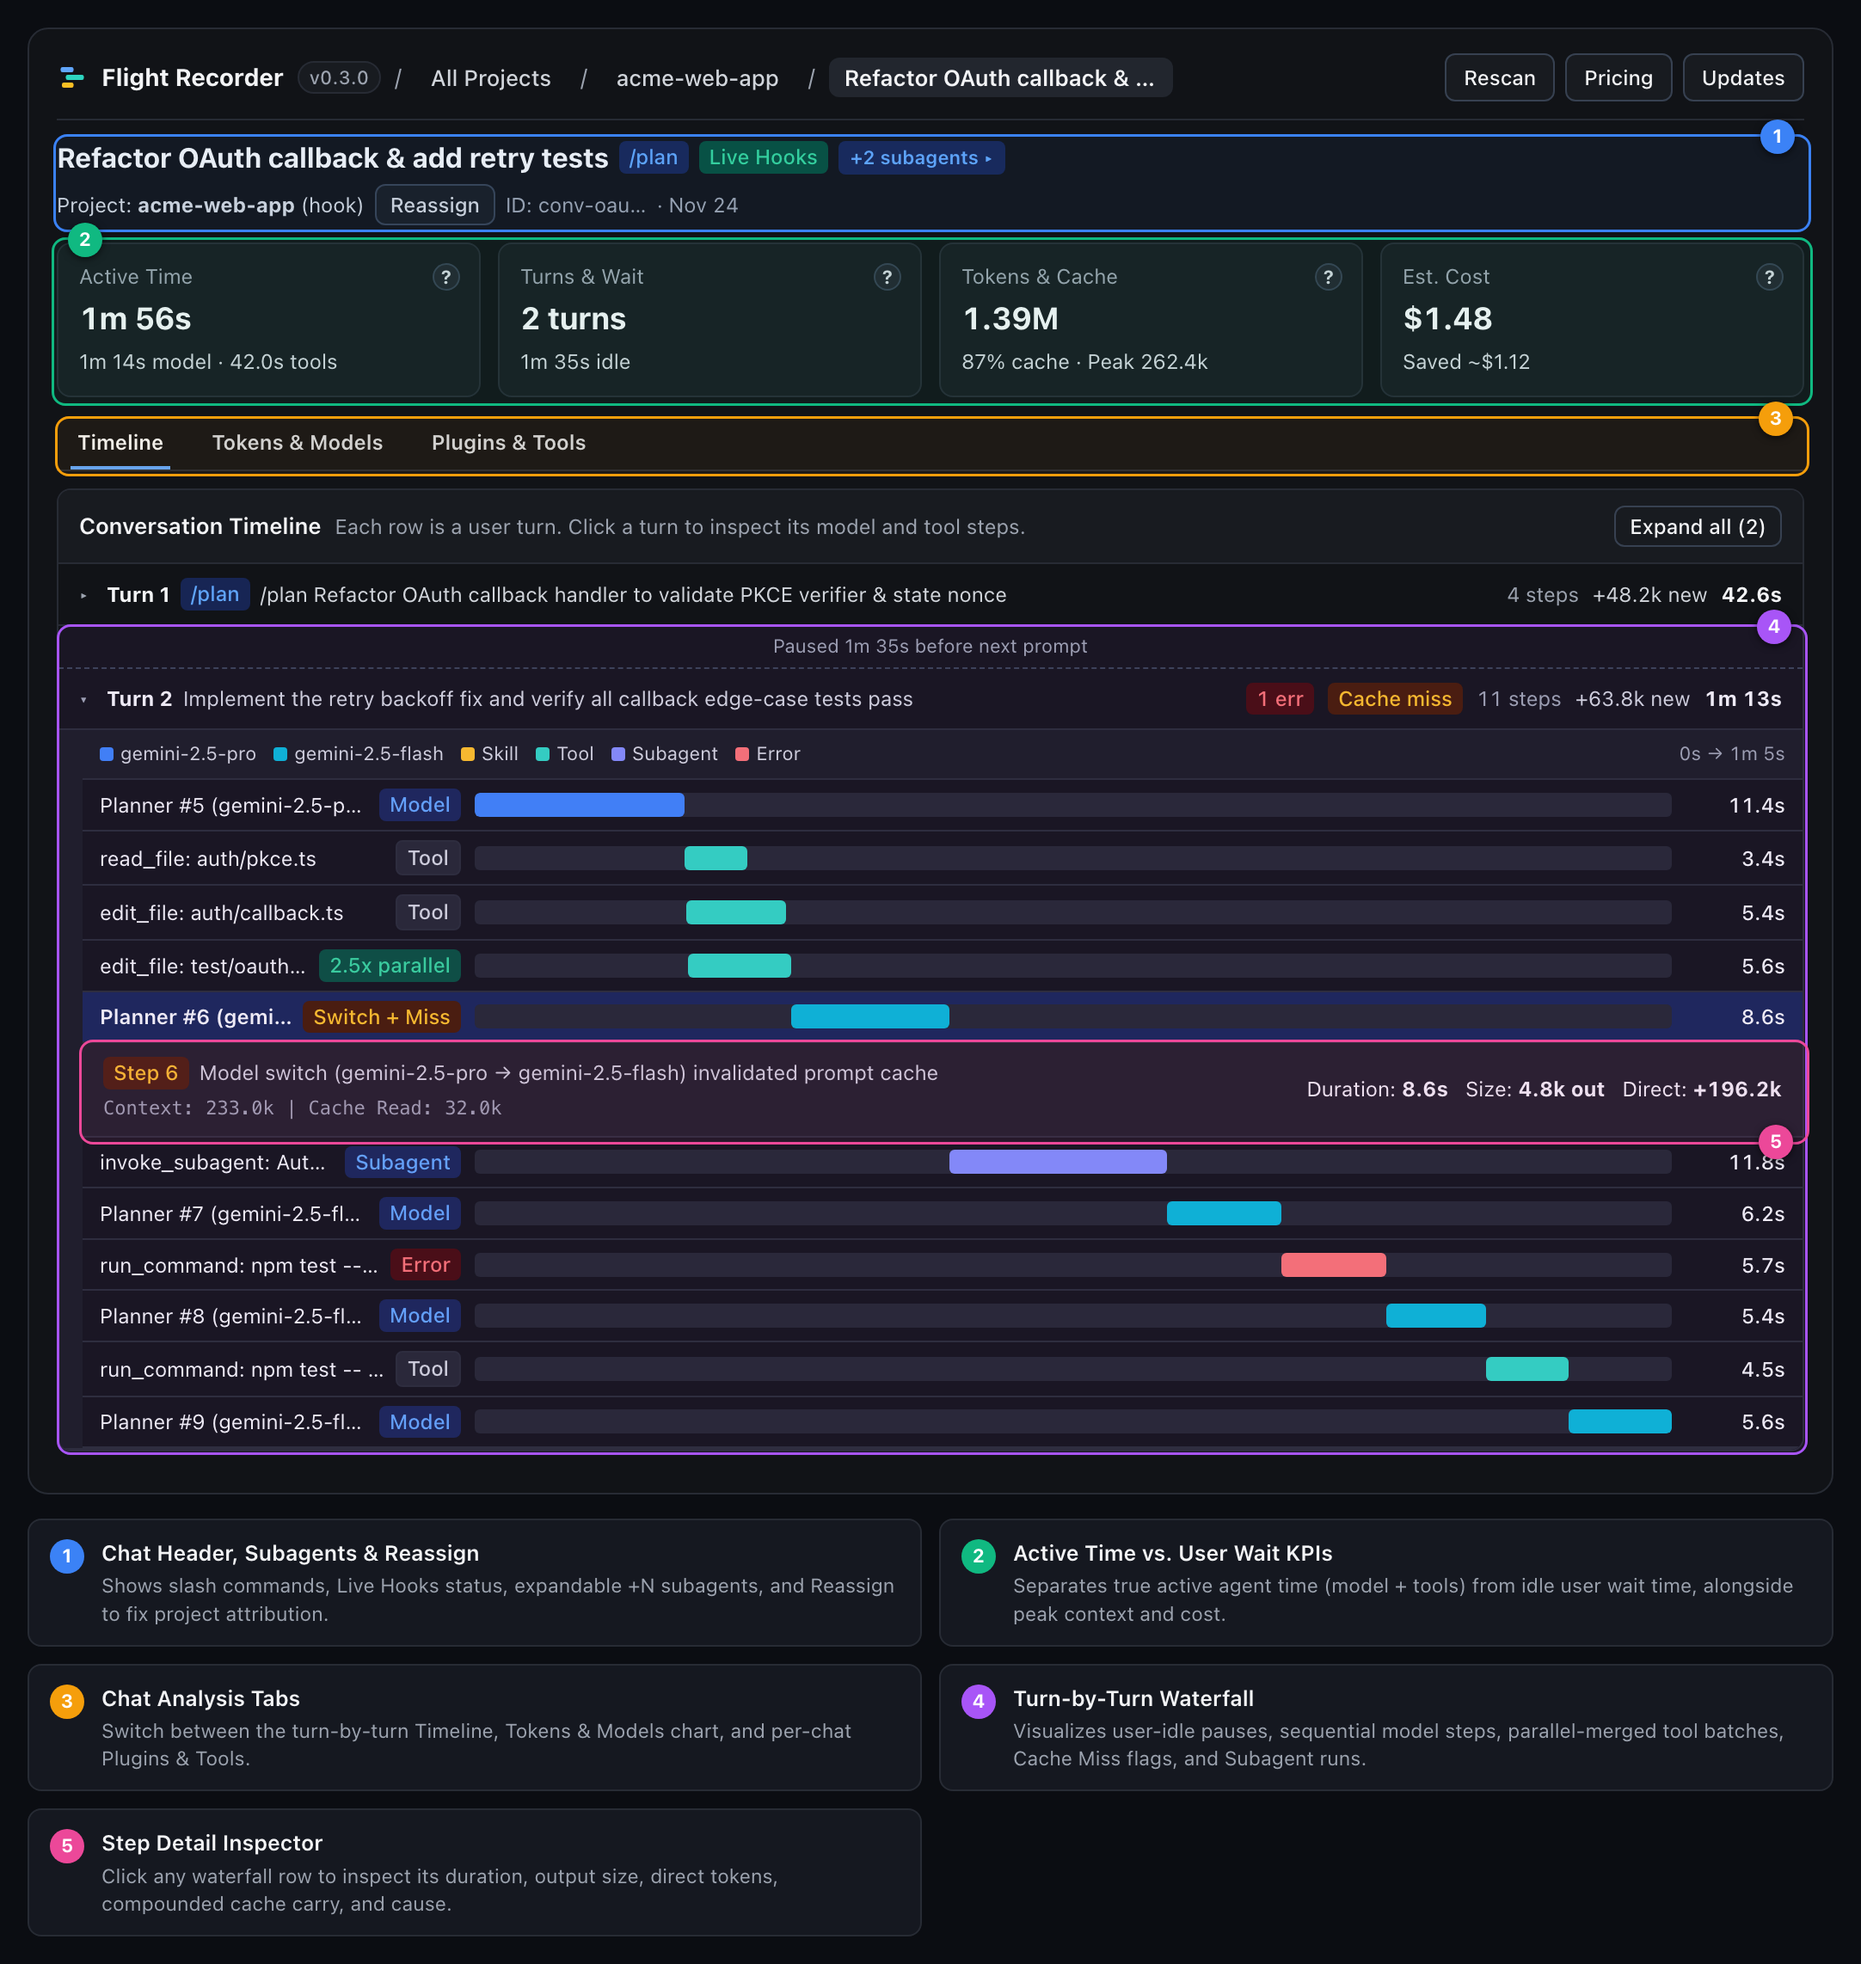
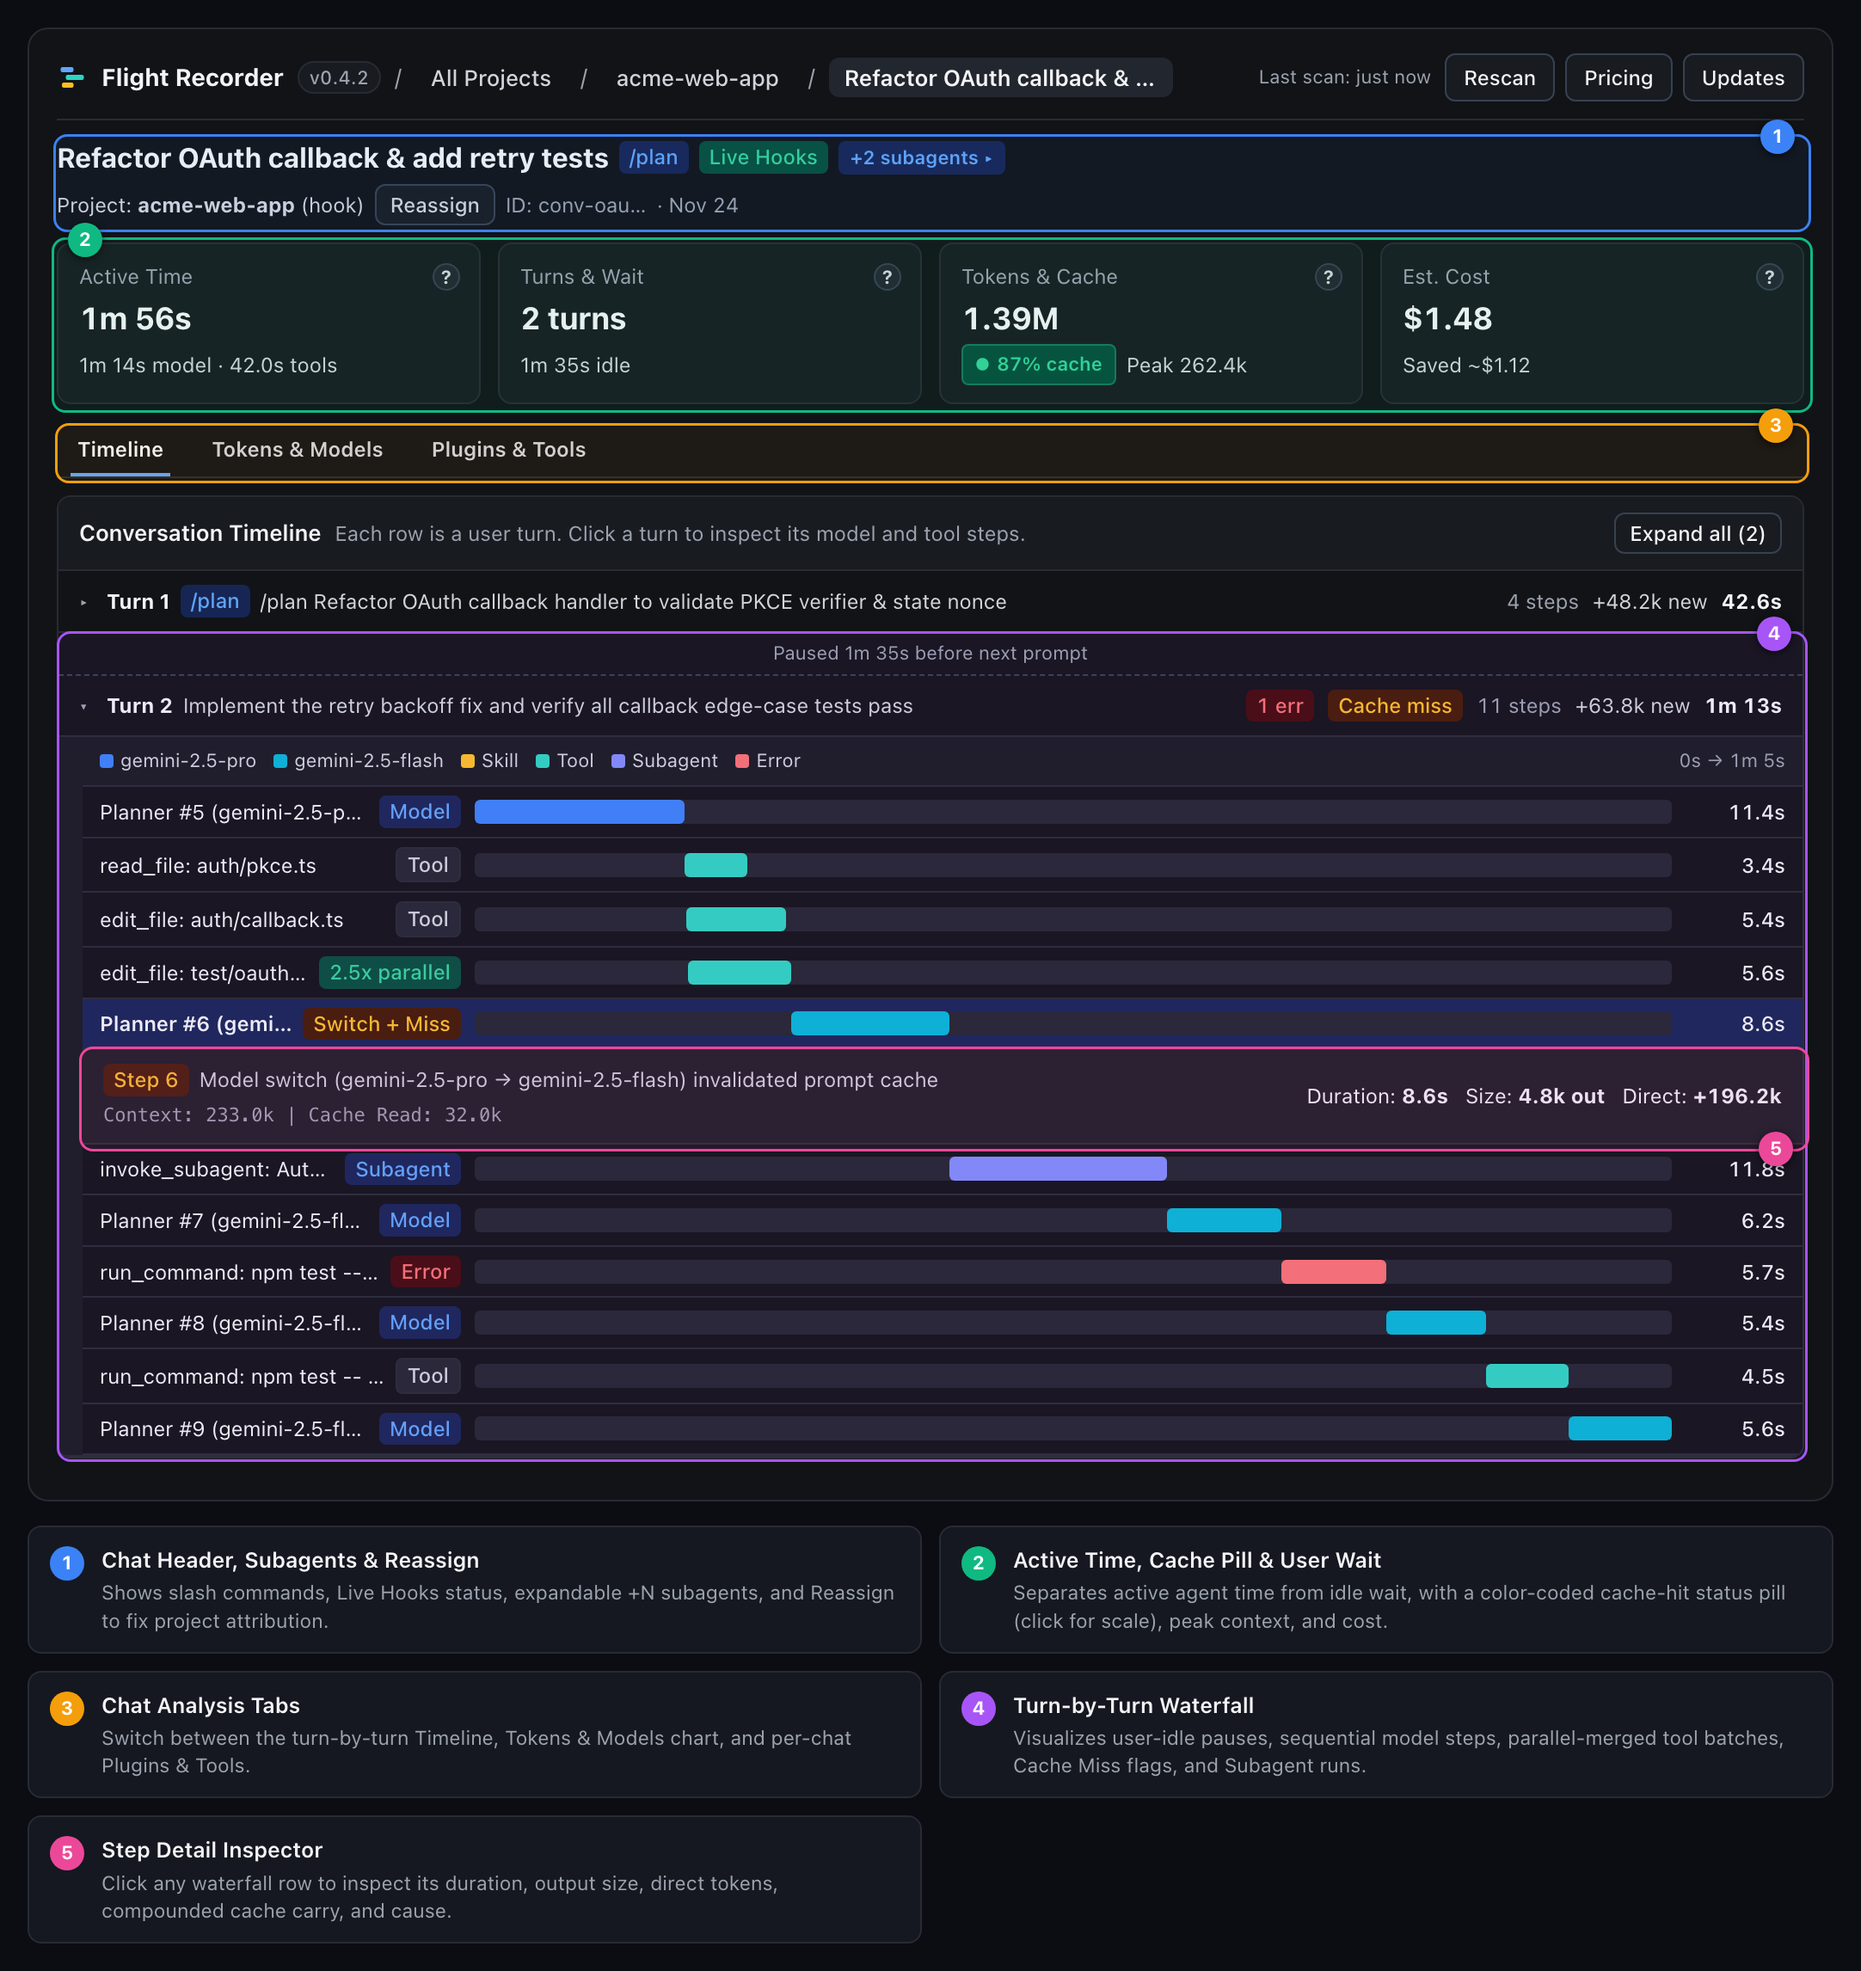
docs: update README and screenshots for v0.4.2 KPI pills, Swarm tracking, and auto-refresh

diff --git a/README.md b/README.md
@@ -32,13 +32,13 @@ flowchart LR
 Navigate with the breadcrumb at the top (**All Projects / *project* / *chat***). Two global controls are always available:
 
 - **Time range** — `Today`, `7d`, `30d`, or `All time`; every view, KPI, and leaderboard is filtered to the selected window, and `Today` / `7d` / `30d` display period-over-period delta pills (`vs yesterday`, `vs prior 7d`, `vs prior 30d`).
-- **Top-right buttons** — **Rescan** re-indexes transcripts and hook events on demand; **Pricing** opens per-model USD rates; **Updates** checks GitHub for a newer version on demand (never runs automatically in the background).
+- **Top-right bar** — **`Last scan`** shows when the index last refreshed (automatically checks for changes every 30s while visible); **Rescan** re-indexes transcripts and hook events on demand; **Pricing** opens per-model USD rates; **Updates** checks GitHub for a newer version on demand (never runs automatically in the background).
 
-Every KPI card has a **`?`** tip explaining what the metric means and why it matters, and panel controls (**Tokens / Steps / Model Time**, **Spend & Time / Context Tokens**, **Context Impact / Wall Time**, **Files**, and the step token chart) display an inline one-liner explaining the active view plus hover tooltips on every button.
+Every KPI card has a **`?`** tip explaining what the metric means and why it matters, and **Prompt Cache Hit** (`≥80%` `●` green Healthy, `60–79%` `▲` yellow Watch, `<60%` `◆` red Low) and **Context Health `% <200k`** (`≥85%` `●` green Healthy, `60–84%` `▲` yellow Watch, `<60%` `◆` red High risk) render color-coded status pills — hover or click any pill or **`?`** icon to see the exact breakdown and **Color scale** legend. Panel controls (**Tokens / Steps / Model Time**, **Spend & Time / Context Tokens**, **Context Impact / Wall Time**, **Files**, and the step token chart) also display an inline one-liner explaining the active view plus hover tooltips on every button.
 
 ### 1. All Projects (home)
 
-KPIs: **Projects**, **Total Tokens**, **Active Time**, **Context Health** (avg peak context, `% <200k`, `200k` cliff / `256k` compaction hits, and resets), **Est. Cost**.
+KPIs: **Projects** (with subagent and **Swarm** counts), **Total Tokens** (with color-coded cache-hit status pill), **Active Time**, **Context Health** (avg peak context, color-coded `% <200k` status pill, `200k` cliff / `256k` compaction hits, and resets), **Est. Cost**.
 
 | Tab | What you get |
 |---|---|
@@ -63,24 +63,24 @@ Available globally on the **Plugins & Models** tab as well as per-project and pe
 
 ### 3. Project view
 
-KPIs: **Chats** (incl. subagents), **Total Tokens**, **Active Time**, **Context Health**, **Est. Cost**.
+KPIs: **Chats** (incl. subagents and **Swarms**), **Total Tokens** (with color-coded cache-hit status pill), **Active Time**, **Context Health** (with color-coded `% <200k` status pill), **Est. Cost**.
 
 | Tab | What you get |
 |---|---|
-| **Overview** | Model mix, recent chats, and the project's top plugins & skills. |
-| **Usage** | Sub-tabs for **Plugins & Skills**, **Models** (toggle **Tokens**, **Steps**, or **Model Time** share), **Tools** (sort by **Context Impact** or **Wall Time**), and **Files** (`r` read · `e` edit · `c` create touches and `Context Carry`, click to open). |
-| **Chats** | Every chat and subagent run in the project. |
+| **Overview** | Model mix, recent chats (with inline model pills and expandable subagent / **Swarm** worker rows), and the project's top plugins & skills. |
+| **Usage** | Sub-tabs for **Plugins & Skills**, **Models** (toggle **Tokens**, **Steps**, or **Model Time** share, with auto-detected **Retired / Unavailable** tags), **Tools** (sort by **Context Impact** or **Wall Time**), and **Files** (`r` read · `e` edit · `c` create touches and `Context Carry`, click to open). |
+| **Chats** | Every chat, **Swarm** coordinator/worker run, and subagent in the project with inline model pills. |
 
 ![Project view with annotated KPIs, model mix, and grouped chats with expanded subagents](https://raw.githubusercontent.com/fmedery/antigravity-plugin-flight-recorder/main/docs/screenshots/project-view.png)
 
 ### 4. Chat view
 
-KPIs: **Active Time**, **Turns & Wait**, **Tokens & Cache**, **Est. Cost**. Use **Reassign** to move a chat to a different project if it was attributed to the wrong workspace.
+KPIs: **Active Time**, **Turns & Wait**, **Tokens & Cache** (with color-coded cache-hit status pill), **Est. Cost**. Use **Reassign** to move a chat to a different project if it was attributed to the wrong workspace. For **Swarm** sessions, **Swarm Coordinator** / **Swarm Worker** badges, expandable worker chips with inline model pills, and a **Combined Swarm** vs. **Coordinator only** KPI toggle let you inspect team totals or coordinator overhead alone.
 
 | Tab | What you get |
 |---|---|
 | **Timeline** | Turn-by-turn waterfall separating **active agent time** (model + parallel-merged tools + subagents) from **user wait / idle**, with cache-miss and subagent markers. |
-| **Tokens & Models** | Per-step context bars with **`200k` cliff** and **`256k` compaction** thresholds, cache-miss flags, and per-model breakdown (**Tokens**, **Steps**, or **Model Time** share) with **orchestrator model-switch** detection. |
+| **Tokens & Models** | Per-step context bars with **`200k` cliff** and **`256k` compaction** thresholds, cache-miss flags, a **Combined / Orchestrator only / Subagents only** (or **Workers only**) scope toggle, and per-model breakdown (**Tokens**, **Steps**, or **Model Time** share) with **orchestrator model-switch** detection. |
 | **Plugins & Tools** | The chat's plugin & skill leaderboard and per-tool metrics. |
 
 #### Timeline
@@ -91,7 +91,7 @@ Inspect each user turn, parallel tool batch, cache miss, subagent run, and step-
 
 #### Tokens & Models
 
-Track prompt-cache carry step by step against `200k` / `256k` context thresholds, switch between **Tokens**, **Steps**, and **Model Time** model shares, and spot orchestrator model switches.
+Track prompt-cache carry step by step against `200k` / `256k` context thresholds, scope models across **Combined**, **Orchestrator only**, or **Subagents / Workers only**, switch between **Tokens**, **Steps**, and **Model Time** shares, and spot orchestrator model switches.
 
 ![Chat Tokens and Models panel with annotated 200k cliff, 256k compaction thresholds, and model switch log](https://raw.githubusercontent.com/fmedery/antigravity-plugin-flight-recorder/main/docs/screenshots/chat-tokens-models.png)
 
